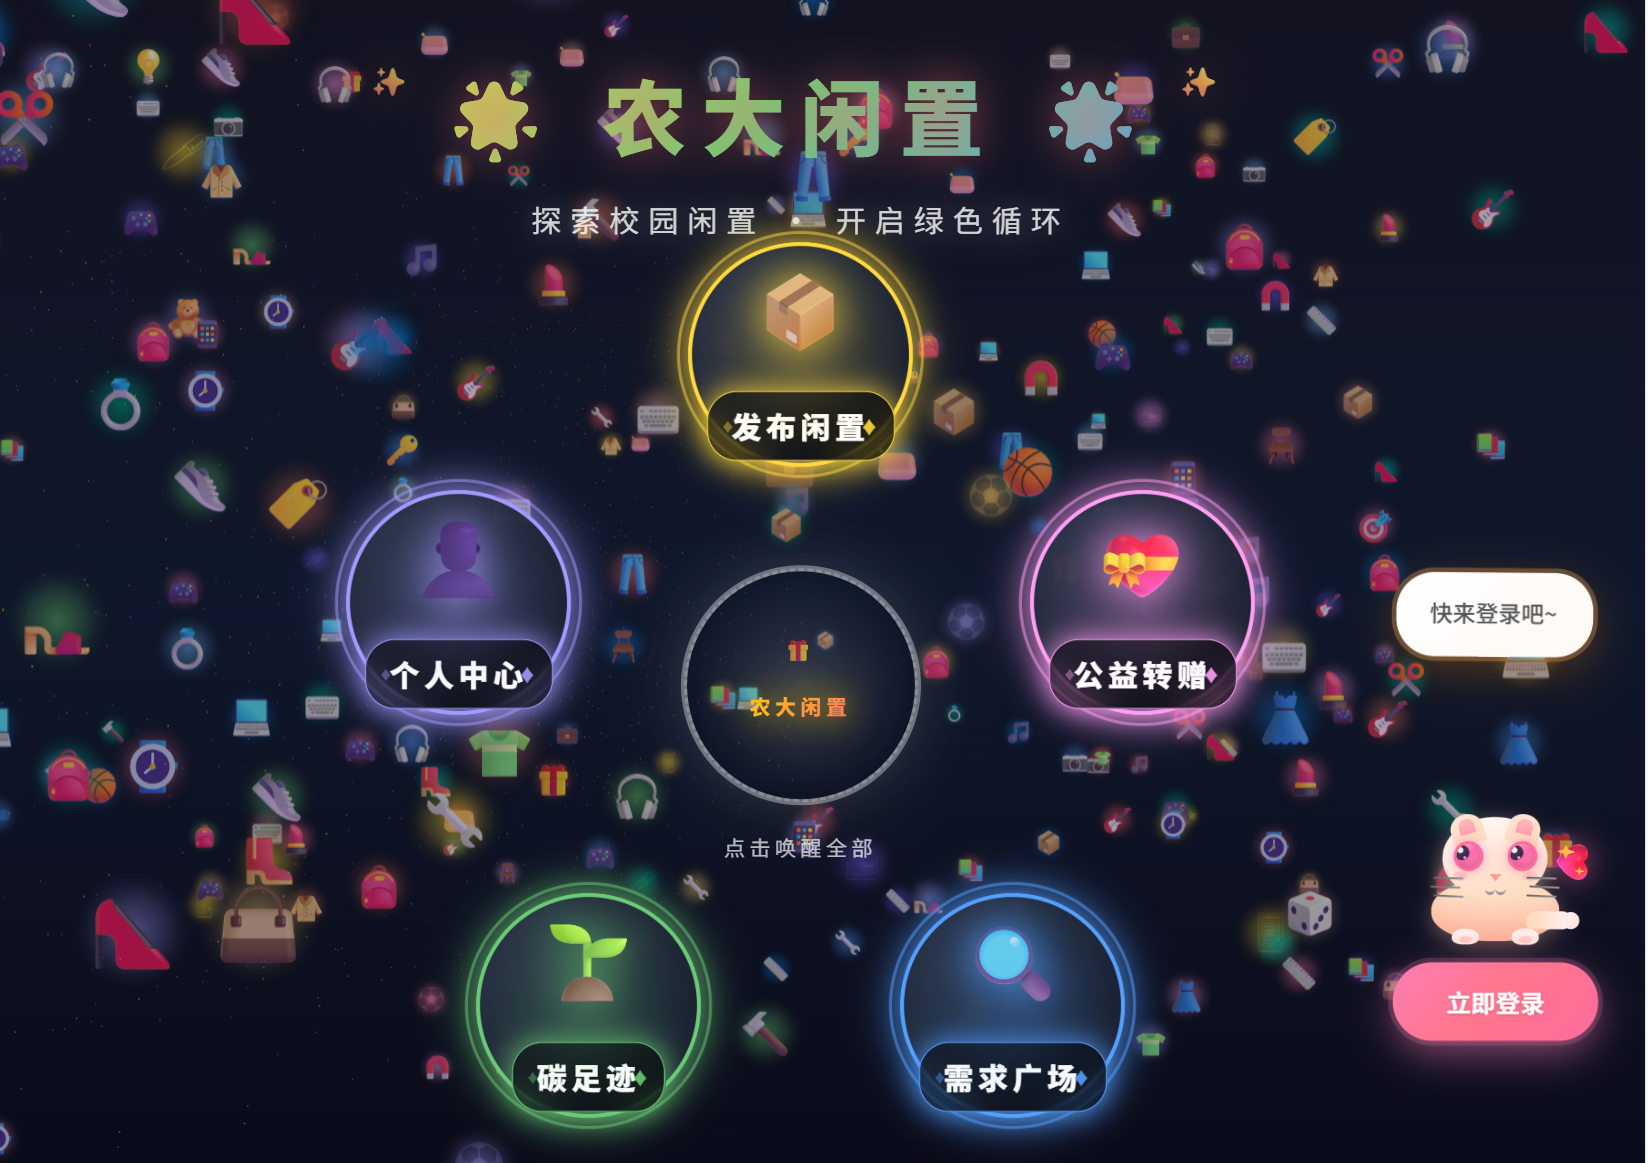
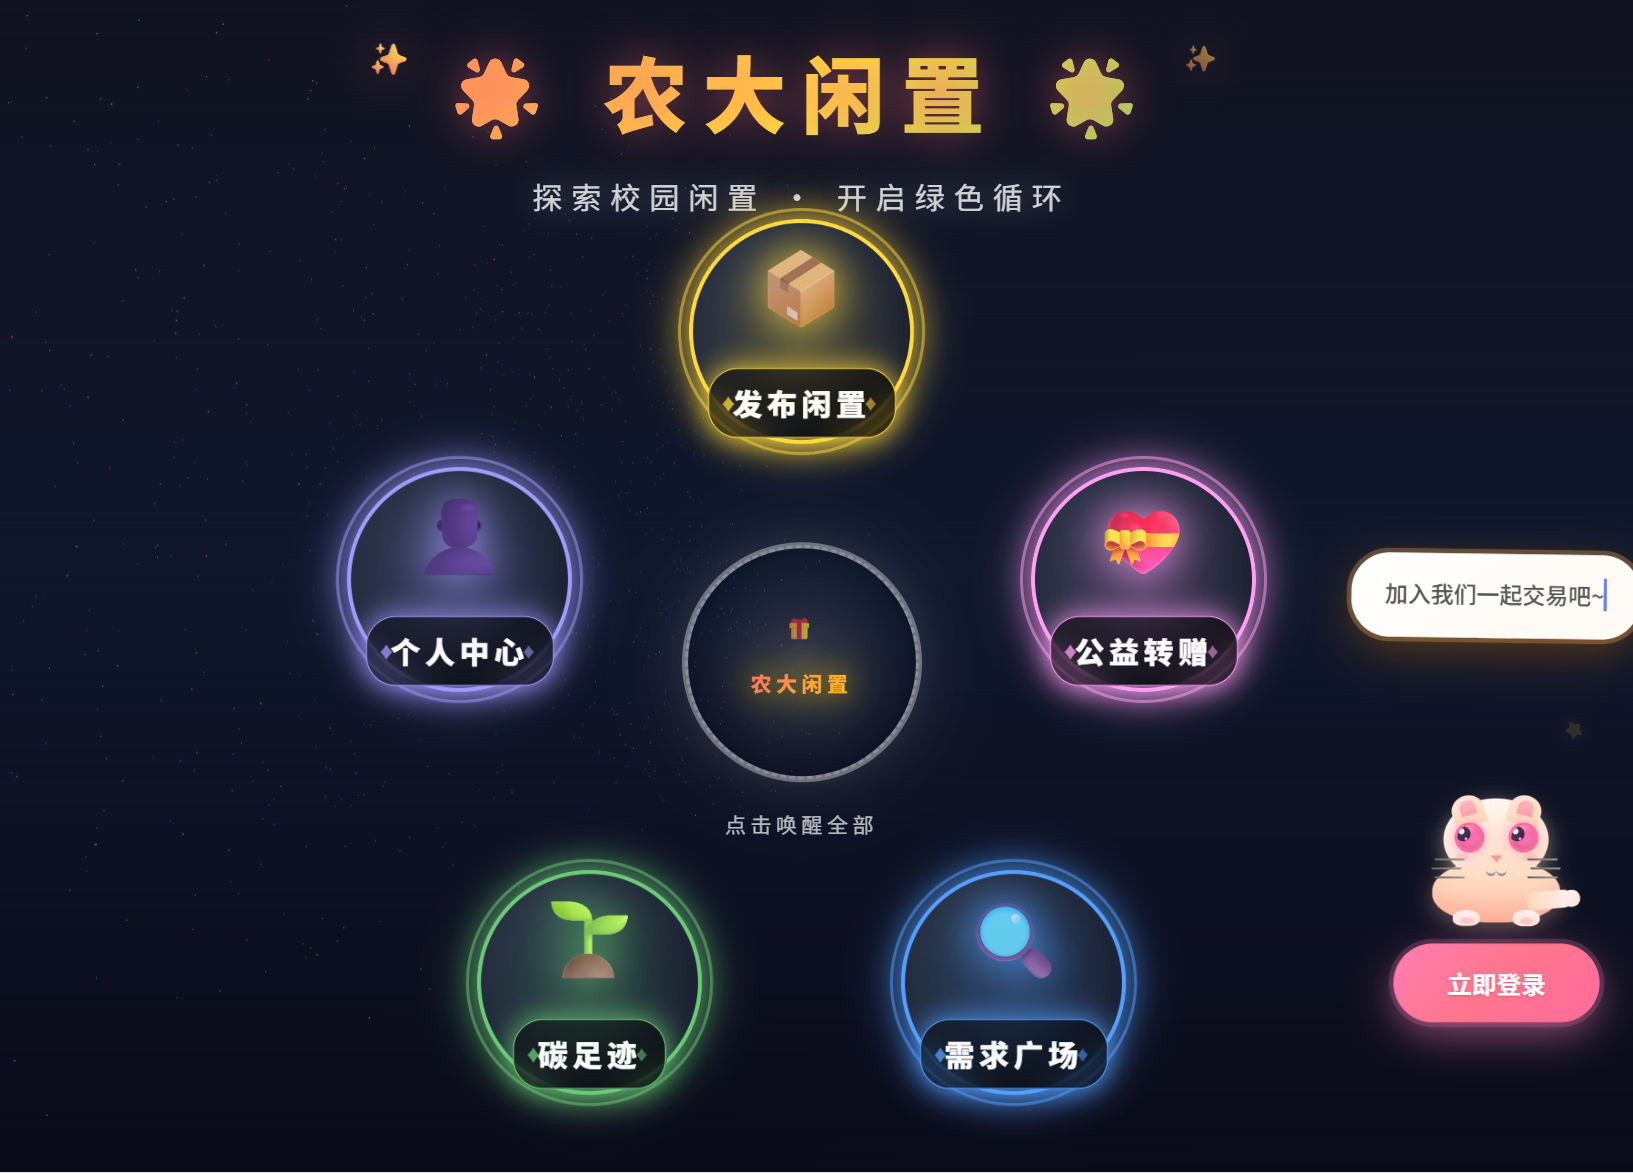
feat: 首页删除橘猫，调整视频背景层级

diff --git a/HNAU_SecondHand/starfield.html b/HNAU_SecondHand/starfield.html
@@ -82,7 +82,7 @@
             left: 0;
             width: 100%;
             height: 100%;
-            z-index: 1;
+            z-index: 0;
         }
         
         /* 主界面容器 */
@@ -1342,6 +1342,14 @@
     </style>
 </head>
 <body>
+    <!-- 视频背景 -->
+    <div class="video-bg">
+        <video id="bg-video" autoplay muted loop playsinline>
+            <source src="./images/bg-video.mp4" type="video/mp4">
+        </video>
+    </div>
+    <div class="video-overlay"></div>
+    
     <!-- Three.js星空背景 -->
     <canvas id="cosmic-canvas"></canvas>
     
@@ -1350,78 +1358,6 @@
     
     <!-- 返回按钮 -->
     <button class="back-btn" id="backBtn" onclick="goBack()">← 返回首页</button>
-    
-    <!-- 登录提示组件 - 可爱的橘猫 -->
-    <div class="login-prompt" id="loginPrompt">
-        <div class="cat-container" onclick="goToLogin()">
-            <!-- 猫咪身体 -->
-            <div class="cat-body">
-                <div class="cat-tail"></div>
-                <div class="cat-paws">
-                    <div class="cat-paw"></div>
-                    <div class="cat-paw"></div>
-                </div>
-            </div>
-            
-            <!-- 猫咪头部 -->
-            <div class="cat-head">
-                <!-- 耳朵 -->
-                <div class="cat-ear left"></div>
-                <div class="cat-ear right"></div>
-                
-                <!-- 眼睛 -->
-                <div class="cat-eyes">
-                    <div class="cat-eye"><div class="cat-eye-pupil"></div></div>
-                    <div class="cat-eye"><div class="cat-eye-pupil"></div></div>
-                </div>
-                
-                <!-- 鼻子和嘴巴 -->
-                <div class="cat-nose"></div>
-                <div class="cat-mouth"></div>
-                
-                <!-- 腮红 -->
-                <div class="cat-blush left"></div>
-                <div class="cat-blush right"></div>
-                
-                <!-- 胡须 -->
-                <div class="cat-whiskers">
-                    <div class="whisker left-1"></div>
-                    <div class="whisker left-2"></div>
-                    <div class="whisker left-3"></div>
-                    <div class="whisker right-1"></div>
-                    <div class="whisker right-2"></div>
-                    <div class="whisker right-3"></div>
-                </div>
-            </div>
-            
-            <!-- 提示气泡 -->
-            <div class="speech-bubble">
-                <span class="typewriter"></span>
-            </div>
-            
-            <!-- 点击详情面板 -->
-            <div class="cat-info-panel" id="catInfoPanel">
-                <button class="close-panel" onclick="event.stopPropagation(); closeCatPanel();">&times;</button>
-                <h4>🐱 欢迎来到农大闲置</h4>
-                <p>登录后可享受：<br>
-                发布闲置物品 · 收藏心仪好物<br>
-                参与校园认证 · 碳积分兑换</p>
-            </div>
-        </div>
-        
-        <!-- 登录按钮 -->
-        <button class="login-btn" onclick="goToLogin()">
-            立即登录
-        </button>
-    </div>
-    
-    <!-- 视频背景 -->
-    <div class="video-bg">
-        <video id="bg-video" autoplay muted loop playsinline>
-            <source src="./images/bg-video.mp4" type="video/mp4">
-        </video>
-    </div>
-    <div class="video-overlay"></div>
     
     <!-- 主界面 -->
     
